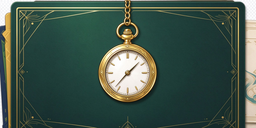
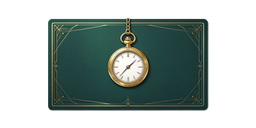
v1.3.1：服务卡PPU=256f

diff --git a/WageBrother.cs b/WageBrother.cs
@@ -124,7 +124,7 @@ internal static class WageBrother
             Type icType = null;
             foreach (var a in AppDomain.CurrentDomain.GetAssemblies()) { Type[] ts; try { ts = a.GetTypes(); } catch (System.Reflection.ReflectionTypeLoadException ex) { ts = ex.Types; } foreach (var t in ts) if (t != null && t.Name == "ImageConversion") { icType = t; break; } if (icType != null) break; }
             Core.LogMsg("[蛙哥] 资源=" + resName + " size=" + png.Length + " icType=" + (icType!=null?icType.FullName:"null")); Core.LogMsg("[蛙哥] LoadImage前"); icType.GetMethod("LoadImage", new Type[] { typeof(Texture2D), typeof(Il2CppStructArray<byte>) }).Invoke(null, new object[] { tex, (Il2CppStructArray<byte>)png });
-            Core.LogMsg("[蛙哥] LoadImage后 tex=" + tex.width + "x" + tex.height); _cardSprite = Sprite.Create(tex, new Rect(0, 0, tex.width, tex.height), new Vector2(0.5f, 0.5f), 200f);
+            Core.LogMsg("[蛙哥] LoadImage后 tex=" + tex.width + "x" + tex.height); _cardSprite = Sprite.Create(tex, new Rect(0, 0, tex.width, tex.height), new Vector2(0.5f, 0.5f), 256f);
             Core.LogMsg("[蛙哥] 服务卡图标加载 " + tex.width + "x" + tex.height); // atlasCache直写注释：索引器导致卡死，走PrefixLoadFromAtlas拦截
         } catch (System.Exception ex) { Core.LogMsg("[蛙哥] 服务卡图标加载失败: " + ex.Message); }
     }
